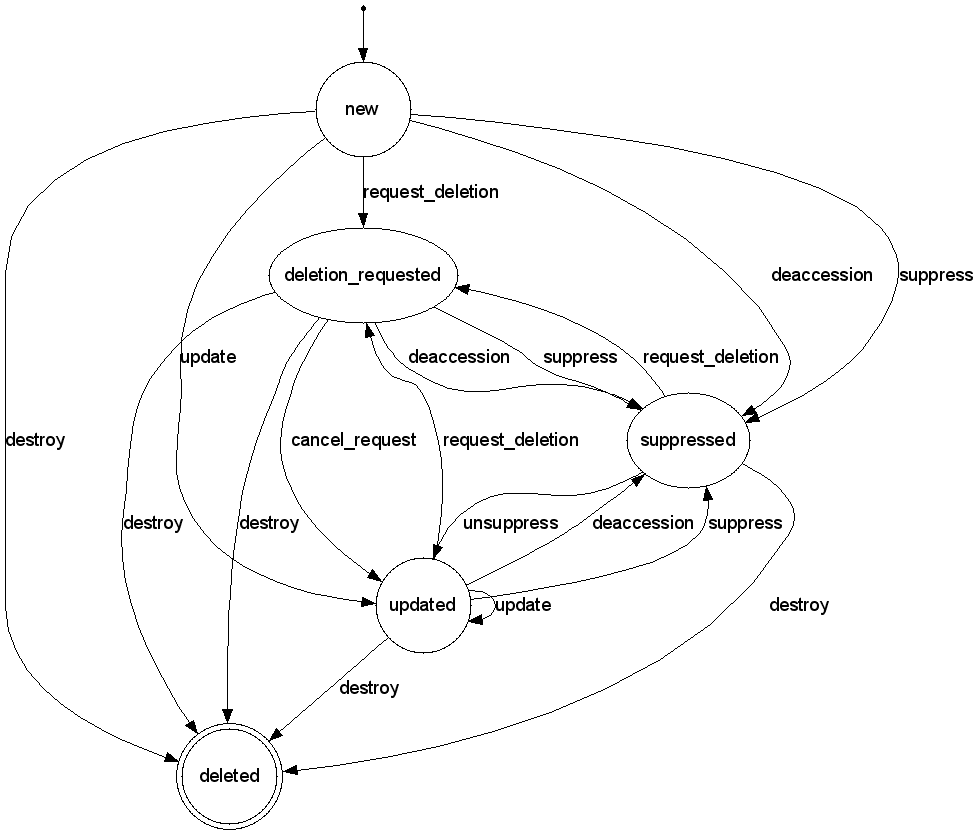
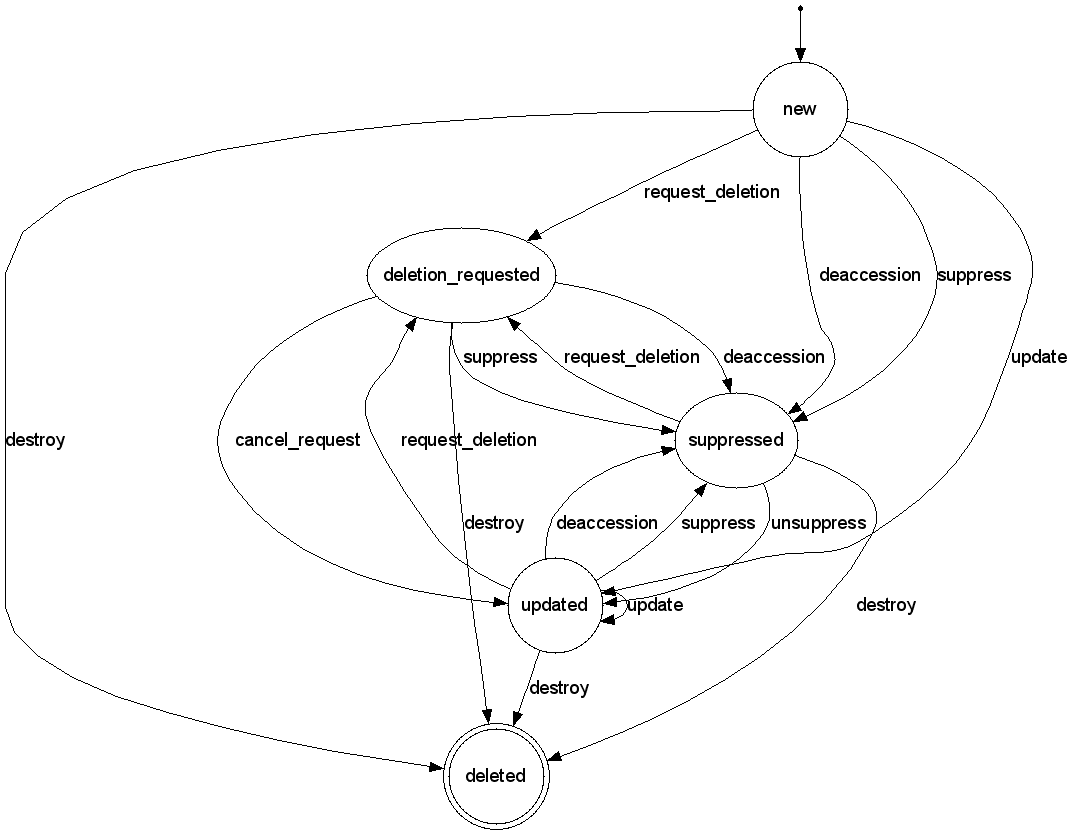
Clean up multiple edges in destroy transitions

diff --git a/archival_object.rb b/archival_object.rb
@@ -29,8 +29,8 @@ class ArchivalObject
     end
     
     event :destroy do
-      transition all - [:deleted] => :deleted, :if => :user_is_admin?
       transition :deletion_requested => :deleted, :if => :user_can_delete?
+      transition all - [:deletion_requested, :deleted] => :deleted, :if => :user_is_admin?
     end
     
     state all - [:deletion_requested] do
